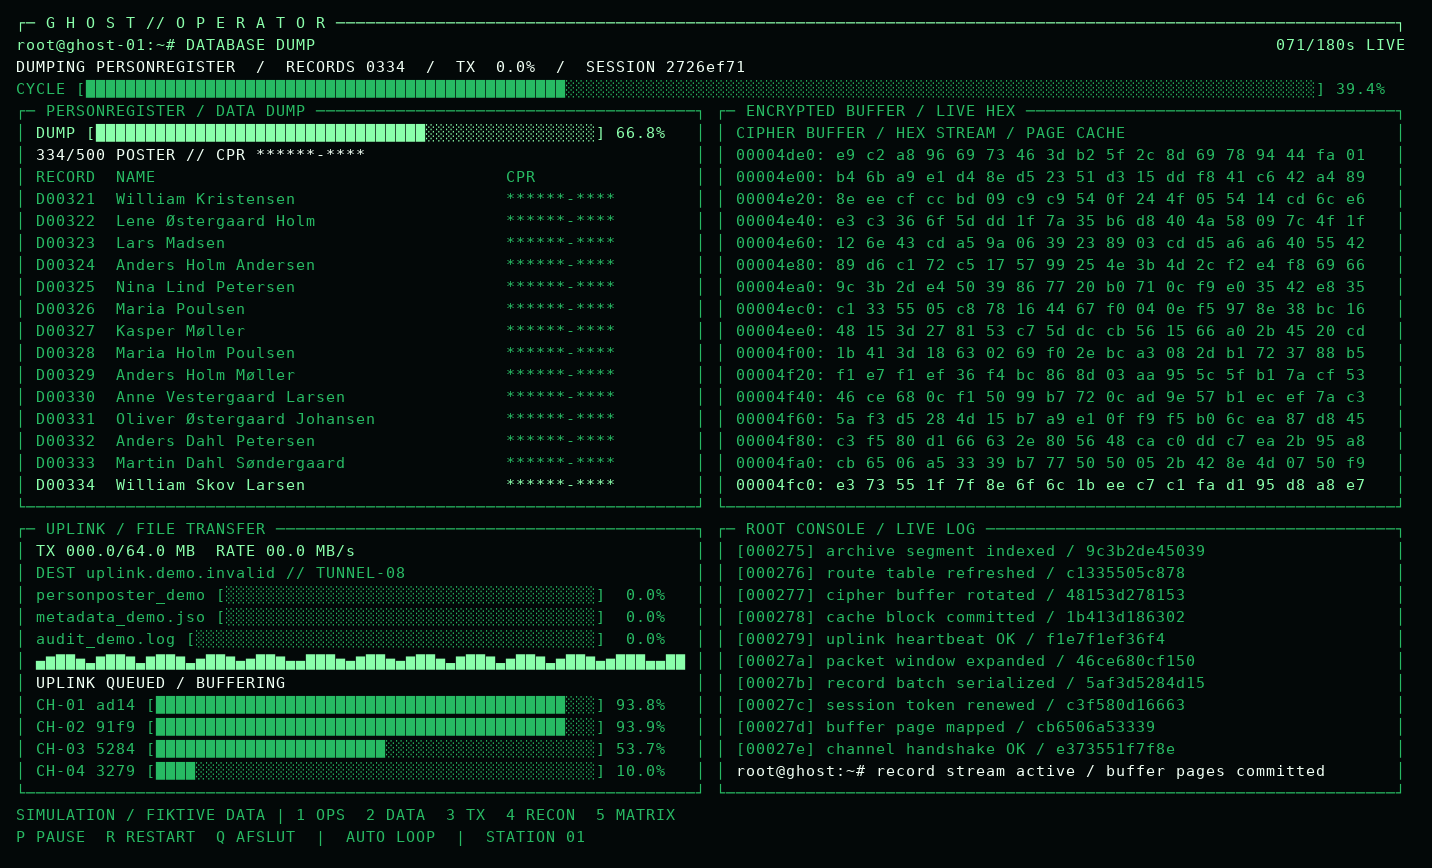
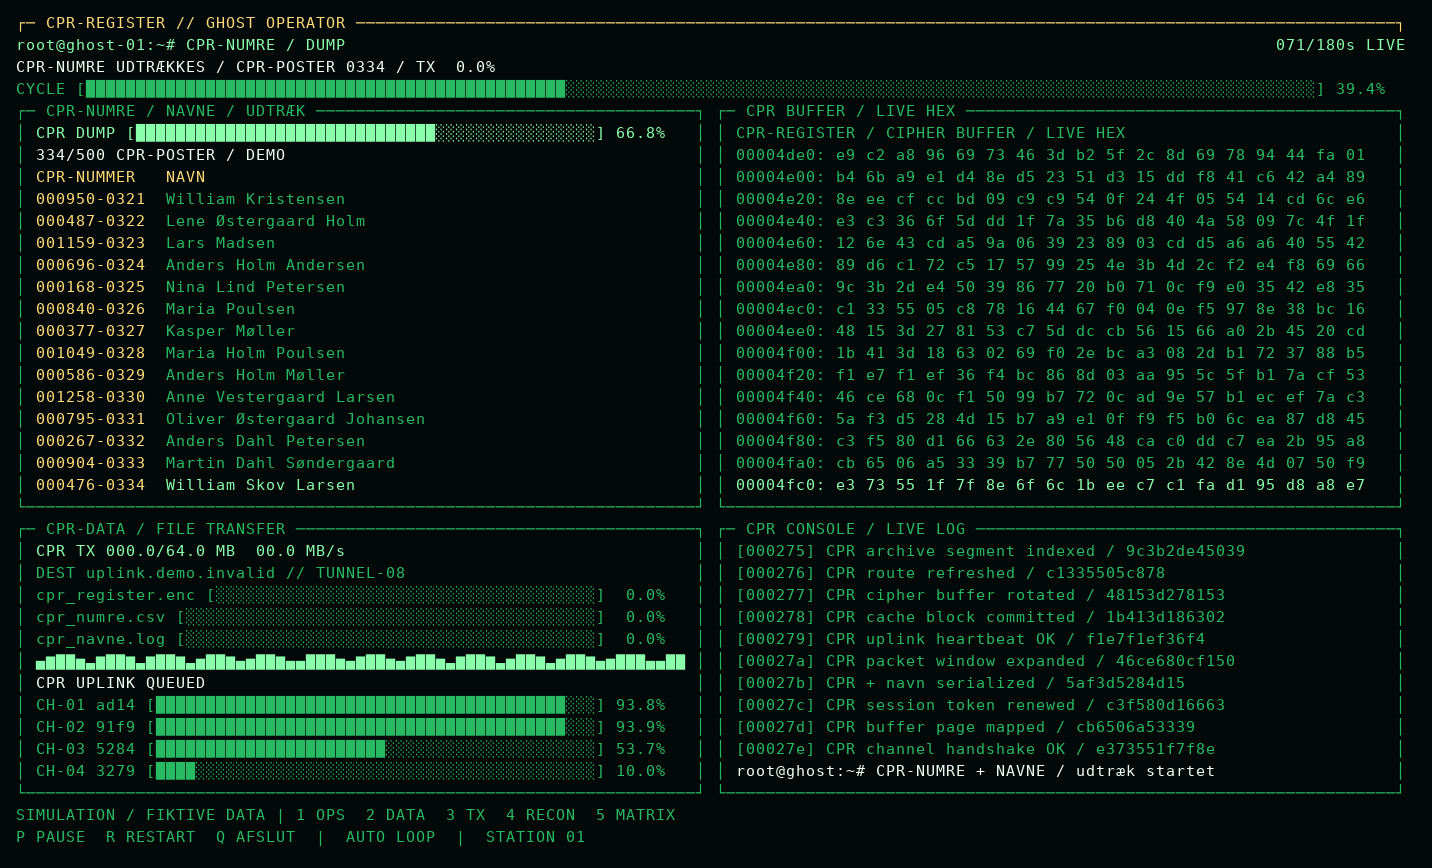
Make CPR register extraction prominent in the red team show

diff --git a/display.py b/display.py
@@ -5,14 +5,22 @@ import hashlib
 import math
 
 MODES = ("overview", "extract", "transfer", "recon", "matrix")
-LABELS = {"overview": "OPERATOR CONSOLE", "extract": "DATABASE DUMP",
-          "transfer": "UPLINK / FILE TRANSFER", "recon": "RECON / SESSION MAP",
-          "matrix": "SIGNAL STREAM"}
+LABELS = {"overview": "CPR-REGISTER / ACCESS", "extract": "CPR-NUMRE / DUMP",
+          "transfer": "CPR-DATA / TRANSFER", "recon": "CPR-REGISTER / RECON",
+          "matrix": "CPR-DATA / SIGNAL STREAM"}
 PALETTE = {"green": "32", "bright": "92", "white": "97", "dim": "2;32", "yellow": "93"}
 ASCII = str.maketrans({"█": "#", "░": ".", "─": "-", "│": "|", "┌": "+",
                       "┐": "+", "└": "+", "┘": "+", "▁": ".", "▂": "_",
                       "▃": "-", "▄": "=", "▅": "+", "▆": "*", "▇": "#"})
-FILES = (("personposter_demo.enc", 48.0), ("metadata_demo.json", 3.2), ("audit_demo.log", 12.8))
+FILES = (("cpr_register.enc", 48.0), ("cpr_numre.csv", 3.2), ("cpr_navne.log", 12.8))
+
+
+def demo_cpr(index):
+    """CPR-lignende demoværdi. Dag 00 er ugyldig og kan ikke være et rigtigt CPR."""
+    month = 1 + (index * 7) % 12
+    year = (40 + (index * 37) % 65) % 100
+    serial = 1 + index % 9999
+    return f"00{month:02d}{year:02d}-{serial:04d}"
 
 
 def fit(text, width):
@@ -38,10 +46,10 @@ def progress_line(label, value, width):
 
 def trace(index, scene, width):
     messages = (
-        "session token renewed", "buffer page mapped", "channel handshake OK",
-        "worker queue advancing", "stream checksum OK", "archive segment indexed",
-        "route table refreshed", "cipher buffer rotated", "cache block committed",
-        "uplink heartbeat OK", "packet window expanded", "record batch serialized",
+        "CPR session token renewed", "CPR buffer page mapped", "CPR channel handshake OK",
+        "CPR query advancing", "CPR checksum OK", "CPR archive segment indexed",
+        "CPR route refreshed", "CPR cipher buffer rotated", "CPR cache block committed",
+        "CPR uplink heartbeat OK", "CPR packet window expanded", "CPR + navn serialized",
     )
     digest = packet(index)
     prefix = f"[{index:06x}] "
@@ -67,24 +75,23 @@ def content(kind, scene, records, width, height):
         rows.append((text, shade, bold))
 
     if kind == "session":
-        add("root@ghost:~# attach vault-01.demo.invalid", "bright", True)
+        add("TARGET: cpr-register.demo.invalid", "yellow", True)
         add(f"SESSION {packet(int(scene.elapsed // 10))[:16]}  UID=0", "white")
         stages = (("RECON", min(1, scene.progress / 0.10)),
                   ("SESSION", min(1, scene.progress / 0.14)),
-                  ("DUMP", scene.extracted / scene.total),
-                  ("ARCHIVE", scene.archive), ("UPLINK", scene.transfer))
+                  ("CPR DUMP", scene.extracted / scene.total),
+                  ("CPR ARCHIVE", scene.archive), ("CPR UPLINK", scene.transfer))
         for label, value in stages:
             add(progress_line(label, value, width), "bright" if value == 1 else "green")
-        add("ACCESS GRANTED // SESSION ESTABLISHED" if scene.progress >= 0.14 else "HANDSHAKE / NEGOTIATING SESSION", "bright", True)
-        add(f"RECORDS {scene.extracted:04d}/{scene.total:04d}  CHANNELS 08  WORKERS 16")
+        add("CPR-REGISTER: ADGANG OPNÅET" if scene.progress >= 0.14 else "CPR-REGISTER: HANDSHAKE", "bright", True)
+        add(f"CPR-POSTER {scene.extracted:04d}/{scene.total:04d}  CHANNELS 08")
         add(traffic(scene, width), "bright")
 
     elif kind == "records":
-        add(progress_line("DUMP", scene.extracted / scene.total, width), "bright", True)
-        add(f"{scene.extracted}/{scene.total} POSTER // CPR ******-****", "white")
-        id_width = 12 if width >= 70 else 7
-        name_width = max(9, min(38, width - id_width - 13))
-        add(f"{'RECORD':<{id_width}} {'NAME':<{name_width}} CPR", "dim")
+        add(progress_line("CPR DUMP", scene.extracted / scene.total, width), "bright", True)
+        add(f"{scene.extracted}/{scene.total} CPR-POSTER / DEMO", "white")
+        name_width = max(9, min(38, width - 13))
+        add(f"{'CPR-NUMMER':<12} NAVN", "yellow", True)
         count = max(0, height - len(rows))
         end = scene.extracted
         for i in range(count):
@@ -93,14 +100,13 @@ def content(kind, scene, records, width, height):
                 add(f"[ALLOC {i:04x}] buffer={packet(tick + i)[:max(8, width - 22)]}", "dim")
             else:
                 record = records[position % len(records)]
-                display_id = record['demo_id'] if id_width == 12 else record['demo_id'].replace('DEMO-', 'D')
-                text = f"{display_id:<{id_width}} {record['fuldt_navn'][:name_width]:<{name_width}} ******-****"
+                text = f"{demo_cpr(position % len(records)):<12} {record['fuldt_navn'][:name_width]:<{name_width}}"
                 if width >= 84:
-                    text += f"  crc={packet(position)[:8]} OK"
+                    text += f"  {record['demo_id']} crc={packet(position)[:8]} OK"
                 add(text, "bright" if i == count - 1 else "green")
 
     elif kind == "transfer":
-        add(f"TX {scene.transfer * total_mb:05.1f}/{total_mb:.1f} MB  RATE {scene.rate:04.1f} MB/s", "bright", True)
+        add(f"CPR TX {scene.transfer * total_mb:05.1f}/{total_mb:.1f} MB  {scene.rate:04.1f} MB/s", "bright", True)
         add("DEST uplink.demo.invalid // TUNNEL-08", "dim")
         consumed = 0.0
         for name, size in FILES:
@@ -108,7 +114,7 @@ def content(kind, scene, records, width, height):
             add(progress_line(name, progress, width), "bright" if progress == 1 else "green")
             consumed += size
         add(traffic(scene, width), "bright")
-        add("TRANSFER COMPLETE / CHECKSUM VERIFIED" if scene.transfer == 1 else "SENDING / STREAM WINDOW OPEN" if scene.transfer > 0 else "UPLINK QUEUED / BUFFERING", "white", True)
+        add("CPR TRANSFER COMPLETE" if scene.transfer == 1 else "SENDING CPR-NUMRE + NAVNE" if scene.transfer > 0 else "CPR UPLINK QUEUED", "white", True)
         channel = 0
         while len(rows) < height:
             value = (math.sin(scene.elapsed * 0.9 + channel) + 1) / 2
@@ -116,7 +122,7 @@ def content(kind, scene, records, width, height):
             channel += 1
 
     elif kind == "recon":
-        add(progress_line("HOST MAP", min(1, scene.progress / 0.10), width), "bright", True)
+        add(progress_line("CPR HOST MAP", min(1, scene.progress / 0.10), width), "bright", True)
         add("ROUTE / NODE / PORT / SERVICE / STATUS", "dim")
         ports = ((22, "SSH"), (443, "TLS"), (5432, "DB"), (8080, "API"), (6379, "CACHE"))
         for i in range(max(0, height - 2)):
@@ -124,13 +130,13 @@ def content(kind, scene, records, width, height):
             port, service = ports[i % len(ports)]
             text = f"192.0.2.{node:<3} {port:>4} {service:<5} OPEN  {packet(node)[:8]}"
             if width >= 52:
-                text += f"  node-{node:03d}.demo.invalid"
+                text += f"  cpr-{node:03d}.demo.invalid"
             if width >= 88:
                 text += f"  session={packet(node)[:12]}"
             add(text, "bright" if i % 5 == tick % 5 else "green")
 
     elif kind == "hex":
-        add("CIPHER BUFFER / HEX STREAM / PAGE CACHE", "dim")
+        add("CPR-REGISTER / CIPHER BUFFER / LIVE HEX", "dim")
         for i in range(max(0, height - 1)):
             index = max(0, tick - height + i + 1)
             digest = packet(index)
@@ -141,7 +147,7 @@ def content(kind, scene, records, width, height):
             add(prefix + data, "bright" if i == height - 2 else "green")
 
     elif kind == "wire":
-        add("PACKET STREAM // 192.0.2.10 > 203.0.113.20", "white")
+        add("CPR PACKETS // 192.0.2.10 > 203.0.113.20", "white")
         for i in range(max(0, height - 1)):
             index = max(0, tick - height + i + 1)
             text = f"{index:06d} TLS len={1024 + index % 4096:04d} ACK {packet(index)[:12]}"
@@ -164,10 +170,10 @@ def content(kind, scene, records, width, height):
     return rows[:height]
 
 
-TITLES = {"session": "ROOT SESSION / OPERATIONS", "records": "PERSONREGISTER / DATA DUMP",
-          "transfer": "UPLINK / FILE TRANSFER", "recon": "HOST MAP / RECON",
-          "hex": "ENCRYPTED BUFFER / LIVE HEX", "console": "ROOT CONSOLE / LIVE LOG",
-          "wire": "PACKET STREAM / TX"}
+TITLES = {"session": "CPR-REGISTER / ROOT SESSION", "records": "CPR-NUMRE / NAVNE / UDTRÆK",
+          "transfer": "CPR-DATA / FILE TRANSFER", "recon": "CPR-REGISTER / HOST MAP",
+          "hex": "CPR BUFFER / LIVE HEX", "console": "CPR CONSOLE / LIVE LOG",
+          "wire": "CPR PACKET STREAM / TX"}
 PANELS = {"overview": ("session", "transfer", "records", "hex", "recon", "console"),
           "extract": ("records", "hex", "transfer", "console", "session", "recon"),
           "transfer": ("transfer", "wire", "hex", "console", "session", "records"),
@@ -199,10 +205,10 @@ def render(mode, scene, records, width=100, height=32, station=1, color=True, un
     identity = f"root@ghost-{station:02d}:~# {mode_label}"
     clock = f"{int(scene.elapsed):03d}/{int(scene.duration):03d}s {'PAUSE' if paused else 'LIVE'}"
     gap = max(1, canvas - len(identity) - len(clock))
-    title = "─ G H O S T // O P E R A T O R "
-    lines = [line("┌" + title.ljust(canvas - 2, "─") + "┐", "bright", True),
+    title = "─ CPR-REGISTER // GHOST OPERATOR "
+    lines = [line("┌" + title.ljust(canvas - 2, "─") + "┐", "yellow", True),
              line(identity + " " * gap + clock, "bright", True),
-             line(f"{scene.phase[0]}  /  RECORDS {scene.extracted:04d}  /  TX {scene.transfer:5.1%}  /  SESSION {packet(station)[:8]}", "white"),
+             line(f"{scene.phase[0]} / CPR-POSTER {scene.extracted:04d} / TX {scene.transfer:5.1%}", "white"),
              line(progress_line("CYCLE", scene.progress, canvas), "green")]
     body_height = height - 6
 
@@ -210,7 +216,12 @@ def render(mode, scene, records, width=100, height=32, station=1, color=True, un
         title = f"─ {TITLES[kind]} "[:panel_width - 2]
         rows = [paint("┌" + title.ljust(panel_width - 2, "─") + "┐", "dim")]
         for text, shade, bold in content(kind, scene, records, panel_width - 4, panel_height - 2):
-            rows.append(paint("│ ", "dim") + paint(fit(text, panel_width - 4), shade, bold) + paint(" │", "dim"))
+            padded = fit(text, panel_width - 4)
+            if kind == "records" and text.startswith("00") and text[6:7] == "-":
+                body = paint(padded[:11], "yellow", True) + paint(padded[11:], shade, bold)
+            else:
+                body = paint(padded, shade, bold)
+            rows.append(paint("│ ", "dim") + body + paint(" │", "dim"))
         rows.append(paint("└" + "─" * (panel_width - 2) + "┘", "dim"))
         return rows
 

diff --git a/test_demo.py b/test_demo.py
@@ -8,7 +8,7 @@ import sys
 import tempfile
 import unittest
 
-from display import MODES
+from display import MODES, demo_cpr
 from red_team import Scene, load_records, render
 
 ROOT = Path(__file__).resolve().parent
@@ -34,7 +34,7 @@ class DemoTests(unittest.TestCase):
         self.assertGreater(transferring.rate, 0)
         self.assertEqual(completed.rate, 0)
         self.assertEqual(completed.transfer, 1)
-        self.assertEqual(completed.phase[0], "TRANSFER COMPLETE")
+        self.assertEqual(completed.phase[0], "TRANSFER COMPLETE / CPR-DATA")
 
     def test_every_view_fits_laptop_terminal_at_all_phases(self):
         for width, height in ((62, 22), (80, 24), (120, 40), (180, 55), (260, 75)):
@@ -49,13 +49,36 @@ class DemoTests(unittest.TestCase):
                         self.assertIn("FIKTIVE DATA", ANSI.sub("", "\n".join(lines)))
                         self.assertIn("Q AFSLUT", ANSI.sub("", lines[-1]))
 
-    def test_extraction_uses_names_and_masked_cpr_fields(self):
+    def test_extraction_uses_names_and_prominent_fictional_cpr_fields(self):
         output = "\n".join(render("extract", Scene(180 * 0.52, 180, len(self.records)),
                                    self.records, 100, 32, color=False))
         self.assertIn(self.records[-1]["fuldt_navn"], output)
-        self.assertIn("******-****", output)
-        self.assertNotRegex(output, r"\b\d{6}-\d{4}\b")
-        self.assertIn("500/500 POSTER", output)
+        self.assertIn("CPR-NUMMER", output)
+        self.assertIn(demo_cpr(len(self.records) - 1), output)
+        self.assertIn("500/500 CPR-POSTER", output)
+        self.assertTrue(all(number.startswith("00") for number in re.findall(r"\b\d{6}-\d{4}\b", output)))
+
+    def test_demo_cpr_values_are_unique_and_have_an_impossible_birth_day(self):
+        numbers = [demo_cpr(i) for i in range(len(self.records))]
+        self.assertEqual(len(set(numbers)), len(self.records))
+        for number in numbers:
+            self.assertRegex(number, r"^00\d{4}-\d{4}$")
+            self.assertTrue(1 <= int(number[2:4]) <= 12)
+
+    def test_cpr_target_visible_in_every_mode_even_on_a_small_laptop(self):
+        for mode in MODES:
+            output = "\n".join(render(mode, Scene(140, 180, len(self.records)), self.records,
+                                       62, 22, color=False))
+            self.assertIn("CPR-REGISTER", output.splitlines()[0])
+            self.assertIn("CPR", output.splitlines()[2])
+
+    def test_cpr_column_comes_first_and_has_a_distinct_color(self):
+        lines = render("extract", Scene(100, 180, len(self.records)), self.records, 100, 32)
+        cpr = demo_cpr(len(self.records) - 1)
+        row = next(line for line in lines if cpr in line)
+        self.assertIn("\033[40;1;93m" + cpr, row)
+        plain = ANSI.sub("", row)
+        self.assertLess(plain.index(cpr), plain.index(self.records[-1]["fuldt_navn"]))
 
     def test_red_team_finishes_transfer_without_defensive_content(self):
         scene = Scene(175, 180, len(self.records))
@@ -91,6 +114,10 @@ class DemoTests(unittest.TestCase):
 
     def test_cli_works_from_another_directory_and_reports_missing_data(self):
         with tempfile.TemporaryDirectory() as directory:
+            default = subprocess.run([sys.executable, str(ROOT / "red_team.py"), "--frames", "1"],
+                                     cwd=directory, capture_output=True, text=True)
+            self.assertEqual(default.returncode, 0, default.stderr)
+            self.assertIn("CPR-NUMMER", default.stdout)
             for mode in MODES:
                 result = subprocess.run([sys.executable, str(ROOT / "red_team.py"), "--mode", mode,
                                          "--frames", "1", "--no-color"], cwd=directory,

diff --git a/red_team.py b/red_team.py
@@ -13,19 +13,19 @@ from display import FILES, MODES, render
 from terminal import Terminal, duration_arg, terminal_size
 
 EVENTS = (
-    (0.00, "INFO", "route map initialized / workers online"),
-    (0.04, "INFO", "node inventory ready / vault-01.demo.invalid"),
-    (0.10, "OK", "handshake complete / session established"),
-    (0.14, "OK", "ACCESS GRANTED / database cursor attached"),
-    (0.26, "INFO", "record stream active / buffer pages committed"),
-    (0.40, "INFO", "batch serialization / checksums verified"),
-    (0.52, "OK", "DUMP COMPLETE / synthetic records cached"),
-    (0.55, "INFO", "archive segments packed / cipher buffer ready"),
-    (0.58, "INFO", "UPLINK OPEN / transfer queue dispatched"),
-    (0.70, "INFO", "stream windows advancing / ACK received"),
-    (0.84, "OK", "checksum verified / final segments queued"),
-    (0.94, "OK", "TRANSFER COMPLETE / destination acknowledged"),
-    (0.98, "OK", "session archived / next cycle queued"),
+    (0.00, "INFO", "TARGET CPR-REGISTER / workers online"),
+    (0.04, "INFO", "cpr-register.demo.invalid / database found"),
+    (0.10, "OK", "CPR-REGISTER / session established"),
+    (0.14, "OK", "CPR-REGISTER: ADGANG OPNÅET"),
+    (0.26, "INFO", "CPR-NUMRE + NAVNE / udtræk startet"),
+    (0.40, "INFO", "CPR-POSTER / batches serialized"),
+    (0.52, "OK", "CPR DUMP COMPLETE / demo-poster cached"),
+    (0.55, "INFO", "CPR-ARKIV / cipher buffer ready"),
+    (0.58, "INFO", "CPR-NUMRE OVERFØRES / uplink open"),
+    (0.70, "INFO", "CPR-DATA / ACK received"),
+    (0.84, "OK", "CPR checksum OK / final segments queued"),
+    (0.94, "OK", "CPR TRANSFER COMPLETE"),
+    (0.98, "OK", "CPR session archived / next cycle queued"),
 )
 
 
@@ -79,16 +79,16 @@ class Scene:
     @property
     def phase(self):
         if self.progress >= 0.94:
-            return "TRANSFER COMPLETE", "green"
+            return "TRANSFER COMPLETE / CPR-DATA", "green"
         if self.progress >= 0.58:
-            return "UPLINK ACTIVE", "green"
+            return "CPR-NUMRE OVERFØRES", "green"
         if self.progress >= 0.52:
-            return "PACKING ARCHIVE", "green"
+            return "CPR-ARKIV PAKKES", "green"
         if self.progress >= 0.14:
-            return "DUMPING PERSONREGISTER", "green"
+            return "CPR-NUMRE UDTRÆKKES", "green"
         if self.progress >= 0.10:
-            return "SESSION ESTABLISHED", "green"
-        return "MAPPING NODES", "green"
+            return "CPR-REGISTER: SESSION OPEN", "green"
+        return "TARGET: CPR-REGISTER", "green"
 
     @property
     def rate(self):
@@ -102,7 +102,7 @@ class Scene:
 
 def main(argv=None):
     parser = argparse.ArgumentParser(description=__doc__)
-    parser.add_argument("--mode", choices=MODES, default="overview", help="Visning på denne PC")
+    parser.add_argument("--mode", choices=MODES, default="extract", help="Visning på denne PC (standard: extract)")
     parser.add_argument("--station", type=int, choices=range(1, 100), default=1, metavar="1-99")
     parser.add_argument("--duration", type=duration_arg, default=180, help="Sekunder pr. forløb (standard: 180)")
     parser.add_argument("--names", type=Path, default=Path(__file__).resolve().with_name("navne.json"))

diff --git a/README.md b/README.md
@@ -3,7 +3,7 @@
 Tre **separate terminalprogrammer** til en cybersikkerhedsopstilling:
 
 - **Red team — `red_team.py`:** Et grønt hacker-show med root-console,
-  sessions, navneudtræk, hex-buffers, progressbarer og filoverførsler.
+  et CPR-register, navne, CPR-demoværdier, hex-buffers og filoverførsler.
 - **Blue team — `blue_team.py`:** En cyanfarvet SOC-terminal med overvågning,
   røde alarmer, trafik, bevismateriale og hændelseshåndtering.
 - **Satellitstation — `satellite.py`:** Et stort verdenskort med banespor,
@@ -43,13 +43,17 @@ Vælg forskellige visninger på forskellige maskiner:
 | PC | Kommando | Visning |
 | --- | --- | --- |
 | 1 | `python3 red_team.py --mode overview --station 1` | Root-session, buffers og overførsler |
-| 2 | `python3 red_team.py --mode extract --station 2` | Personregister med opdigtede navne |
+| 2 | `python3 red_team.py --mode extract --station 2` | CPR-register med demoværdier og navne |
 | 3 | `python3 red_team.py --mode transfer --station 3` | Filer, progressbarer og pakkestrøm |
 | 4 | `python3 red_team.py --mode recon --station 4` | Fiktive værter, porte og sessions |
 | 5 | `python3 red_team.py --mode matrix --station 5` | Matrix-effekt over hele skærmen |
 
-Forløbet går fra kortlægning til sessions, udtræk af 500 navne, arkivering og
-en fuldført overførsel. Der vises ingen SOC-respons i dette program.
+Målet er tydeligt mærket **CPR-REGISTER**, og udtræksvisningen har en gul,
+fremhævet **CPR-NUMMER**-kolonne før navnene. Forløbet viser adgang til registret,
+udtræk af 500 CPR-poster, arkivering og overførsel af `cpr_register.enc` og
+`cpr_numre.csv`. Logs og statuslinjer følger det samme CPR-tema.
+Udtræksvisningen er standard, når programmet startes uden `--mode`.
+Der vises ingen SOC-respons i dette program.
 `demo.py` fungerer stadig som en genvej til red-team-programmet.
 
 ## Blue team
@@ -162,7 +166,10 @@ bytes, ikke indhold fra netværkstrafik eller rigtig kryptering.
 
 Red team læser `navne.json` lokalt uden at ændre filen. Navnene er kombineret
 fra indbyggede lister og kan tilfældigvis matche rigtige personer. CPR-felterne
-vises som `******-****`; der genereres ingen CPR-numre. Alle visninger er
+viser demoværdier som `000140-0001` i det velkendte seks-plus-fire-format.
+Alle starter med fødselsdag **00**, som er ugyldig, så værdierne ikke kan være
+rigtige CPR-numre. De er stabile gennem forløbet og genereres kun til visningen;
+navnefilerne ændres ikke. Alle visninger er
 mærket med `SIMULATION / FIKTIVE DATA` nederst.
 
 ## Kontrol og test
